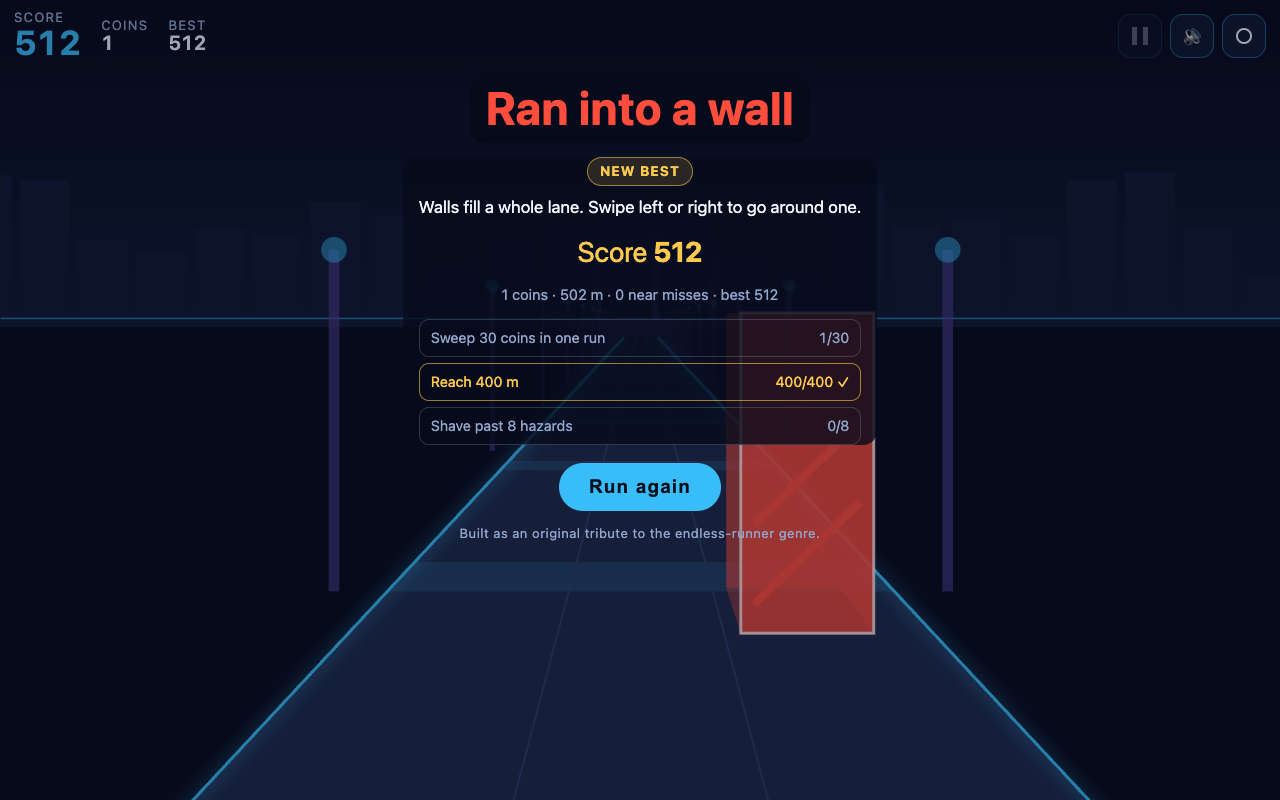
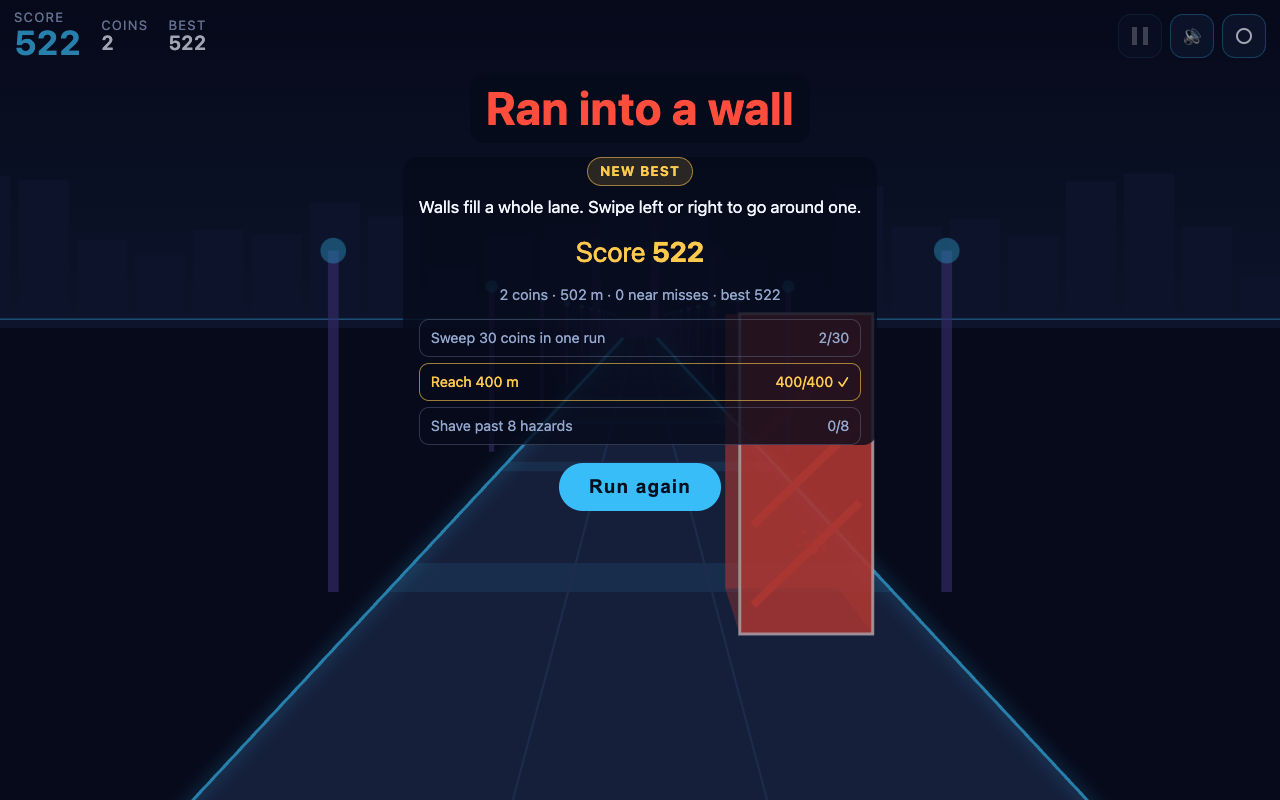
Keep the game-over action on screen in short landscape
The card ran past the bottom of an 844x390 viewport, leaving Run again below
the fold. Under max-height 540px it now tightens its spacing and drops the
mission list, which is optional and also shown on the menu.

The control audit did not catch this because it only ran while the overlay was
hidden, so it now also runs in the game-over state and reports any overlay
button that is small, off-screen or covered.

diff --git a/src/style.css b/src/style.css
@@ -282,6 +282,38 @@ html[data-effects='minimal'] .glyph-fx {
   max-width: min(32rem, 100%);
 }
 
+/* Short viewports (landscape phones) cannot fit the full card: the action
+   button ended up below the fold, which makes the primary control
+   unreachable. Tighten the card and drop the mission list, which is optional
+   and also shown on the menu, so the button always stays on screen. */
+@media (max-height: 540px) {
+  #overlay[data-variant='over'] {
+    padding-top: max(54px, calc(env(safe-area-inset-top) + 50px));
+    gap: 6px;
+  }
+
+  #overlay[data-variant='over'] h1 {
+    font-size: clamp(20px, 4.6vw, 28px);
+    padding: 4px 14px;
+  }
+
+  #overlay[data-variant='over'] ul.missions {
+    display: none;
+  }
+
+  #overlay[data-variant='over'] #overlay-body {
+    padding: 6px 0;
+  }
+
+  #overlay[data-variant='over'] #overlay-body .result {
+    font-size: 19px;
+  }
+
+  #overlay[data-variant='over'] #overlay-body .badge {
+    margin-bottom: 4px;
+  }
+}
+
 #overlay[data-variant='over'] h1,
 #overlay[data-variant='over'] #overlay-body {
   padding: 0 16px;
@@ -438,6 +470,14 @@ ul.keys span {
 
 #overlay-action:active {
   transform: translateY(1px);
+}
+
+/* The credit line belongs on the menu. On the game-over screen it lands on
+   top of the unblurred scene with no card behind it, where it is unreadable
+   and competes with the hazard the player is meant to be looking at. */
+#overlay[data-variant='over'] .hint,
+#overlay[data-variant='paused'] .hint {
+  display: none;
 }
 
 #overlay .hint {

diff --git a/README.md b/README.md
@@ -151,6 +151,7 @@ branch. Both were driven by the **same** scripts (`scripts/shots.mjs`,
 | Runner occludes next hazard | yes — 12.29 world units, past the 11-unit row gap | no — 5.75 units | closed form in `hazardVisibilityZ`, asserted in tests |
 | Horizontal overflow | 0 px | 0 px | `scrollWidth - clientWidth` |
 | Canvas backing store / CSS px | 2.0 mobile, 1.0 desktop | 2.0 mobile, 1.0 desktop | `canvas.width / rect.width` |
+| Game-over button reachable | on screen | on screen | `elementFromPoint` on `#overlay button`, in the game-over state |
 | Console + page errors | 0 | 0 | Playwright listeners |
 | Mean frame rate, 60 s after 5 s warm-up | 60.00 fps over 3601 frames | 60.00 fps over 3601 frames | `scripts/perf.mjs` |
 | Frame interval p50 / p90 / p99 / max | 16.7 / 16.7 / 16.8 / 16.8 ms | 16.7 / 16.7 / 16.8 / 16.8 ms | same |
@@ -174,6 +175,20 @@ Compare [`docs/evidence/before-390x844-play.png`](docs/evidence/before-390x844-p
 with [`docs/evidence/after-390x844-play.png`](docs/evidence/after-390x844-play.png):
 same seed, same score, same viewport. In the first the runner's body covers all
 but the top edge of the amber hurdle in its own lane.
+
+Two defects in this work were found by looking at the captures rather than by
+the checks, and both are worth recording because the checks had to be widened
+afterwards:
+
+- The boost chip shared a flex row with the tool buttons and pushed the third
+  one past the right edge at 390 px. A `scrollWidth` comparison cannot see that:
+  the HUD is absolutely positioned, so the button was clipped rather than
+  widening the document. The capture script now probes each control with
+  `elementFromPoint`.
+- On a short landscape viewport the game-over card ran past the bottom and left
+  **Run again** below the fold. The control audit missed it because it ran while
+  the overlay was hidden. It now runs in the game-over state too, and the card
+  tightens and drops the optional mission list under `max-height: 540px`.
 
 ### What the measurements do *not* show
 
